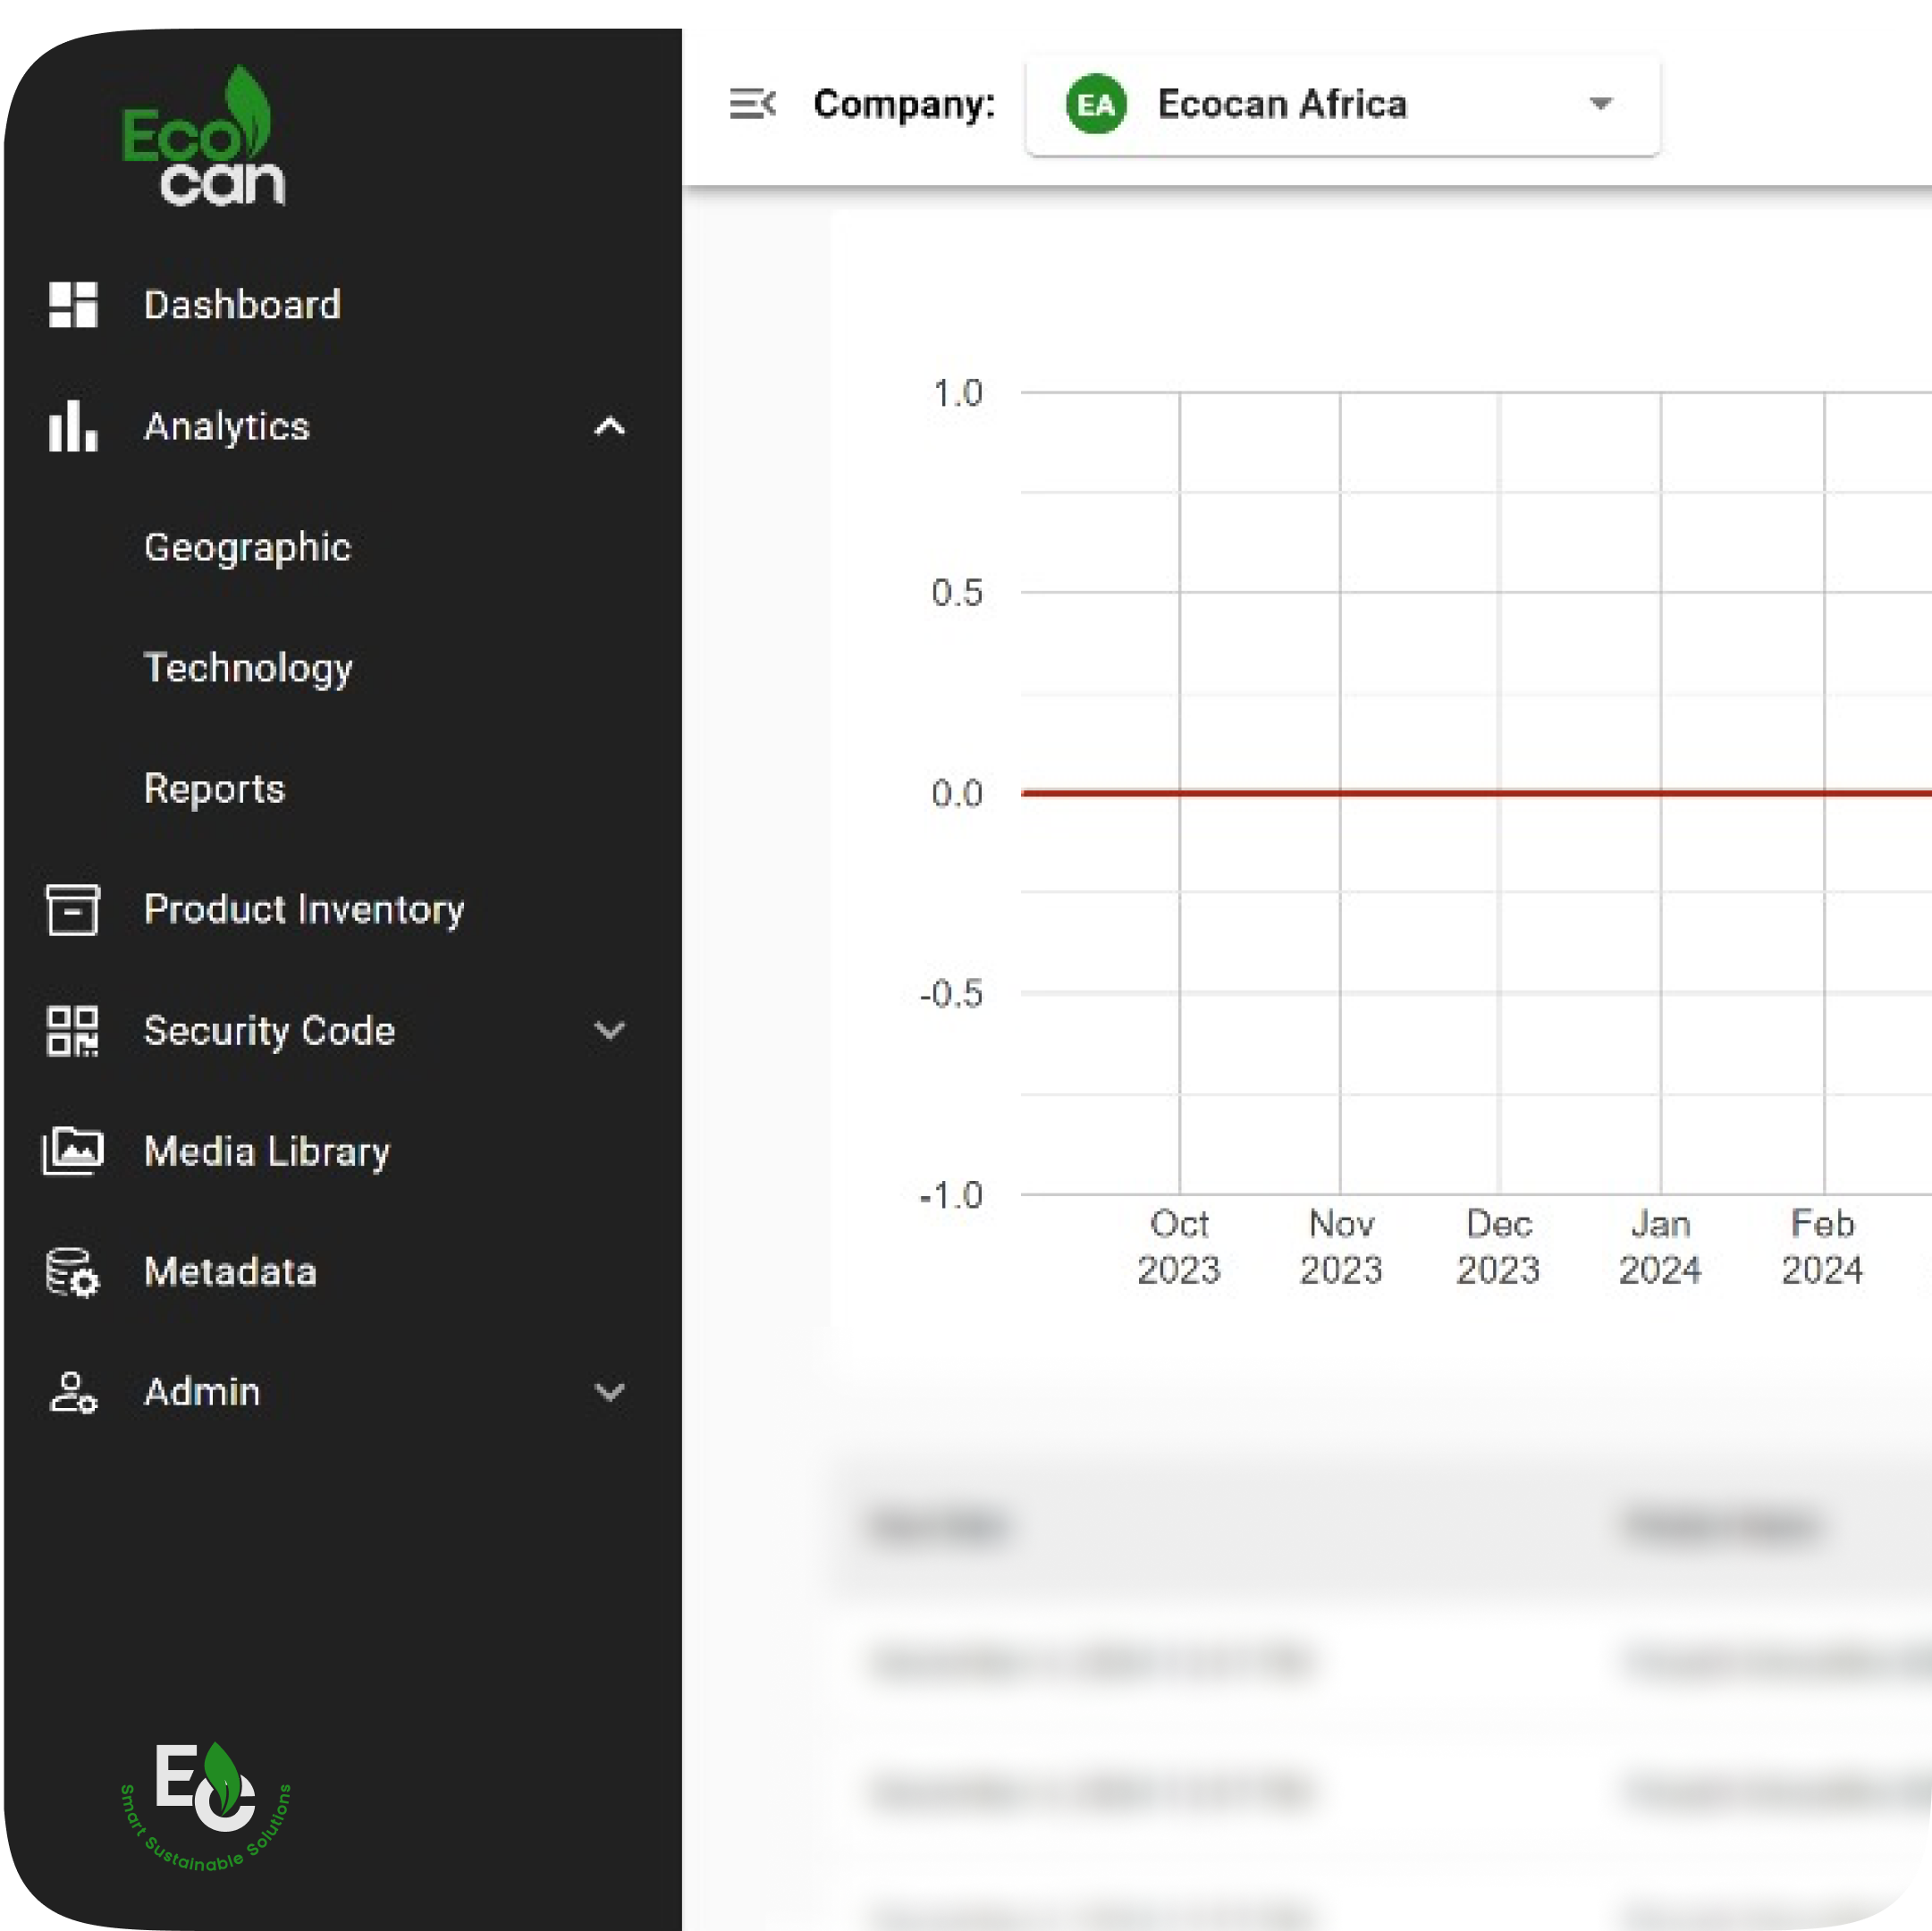
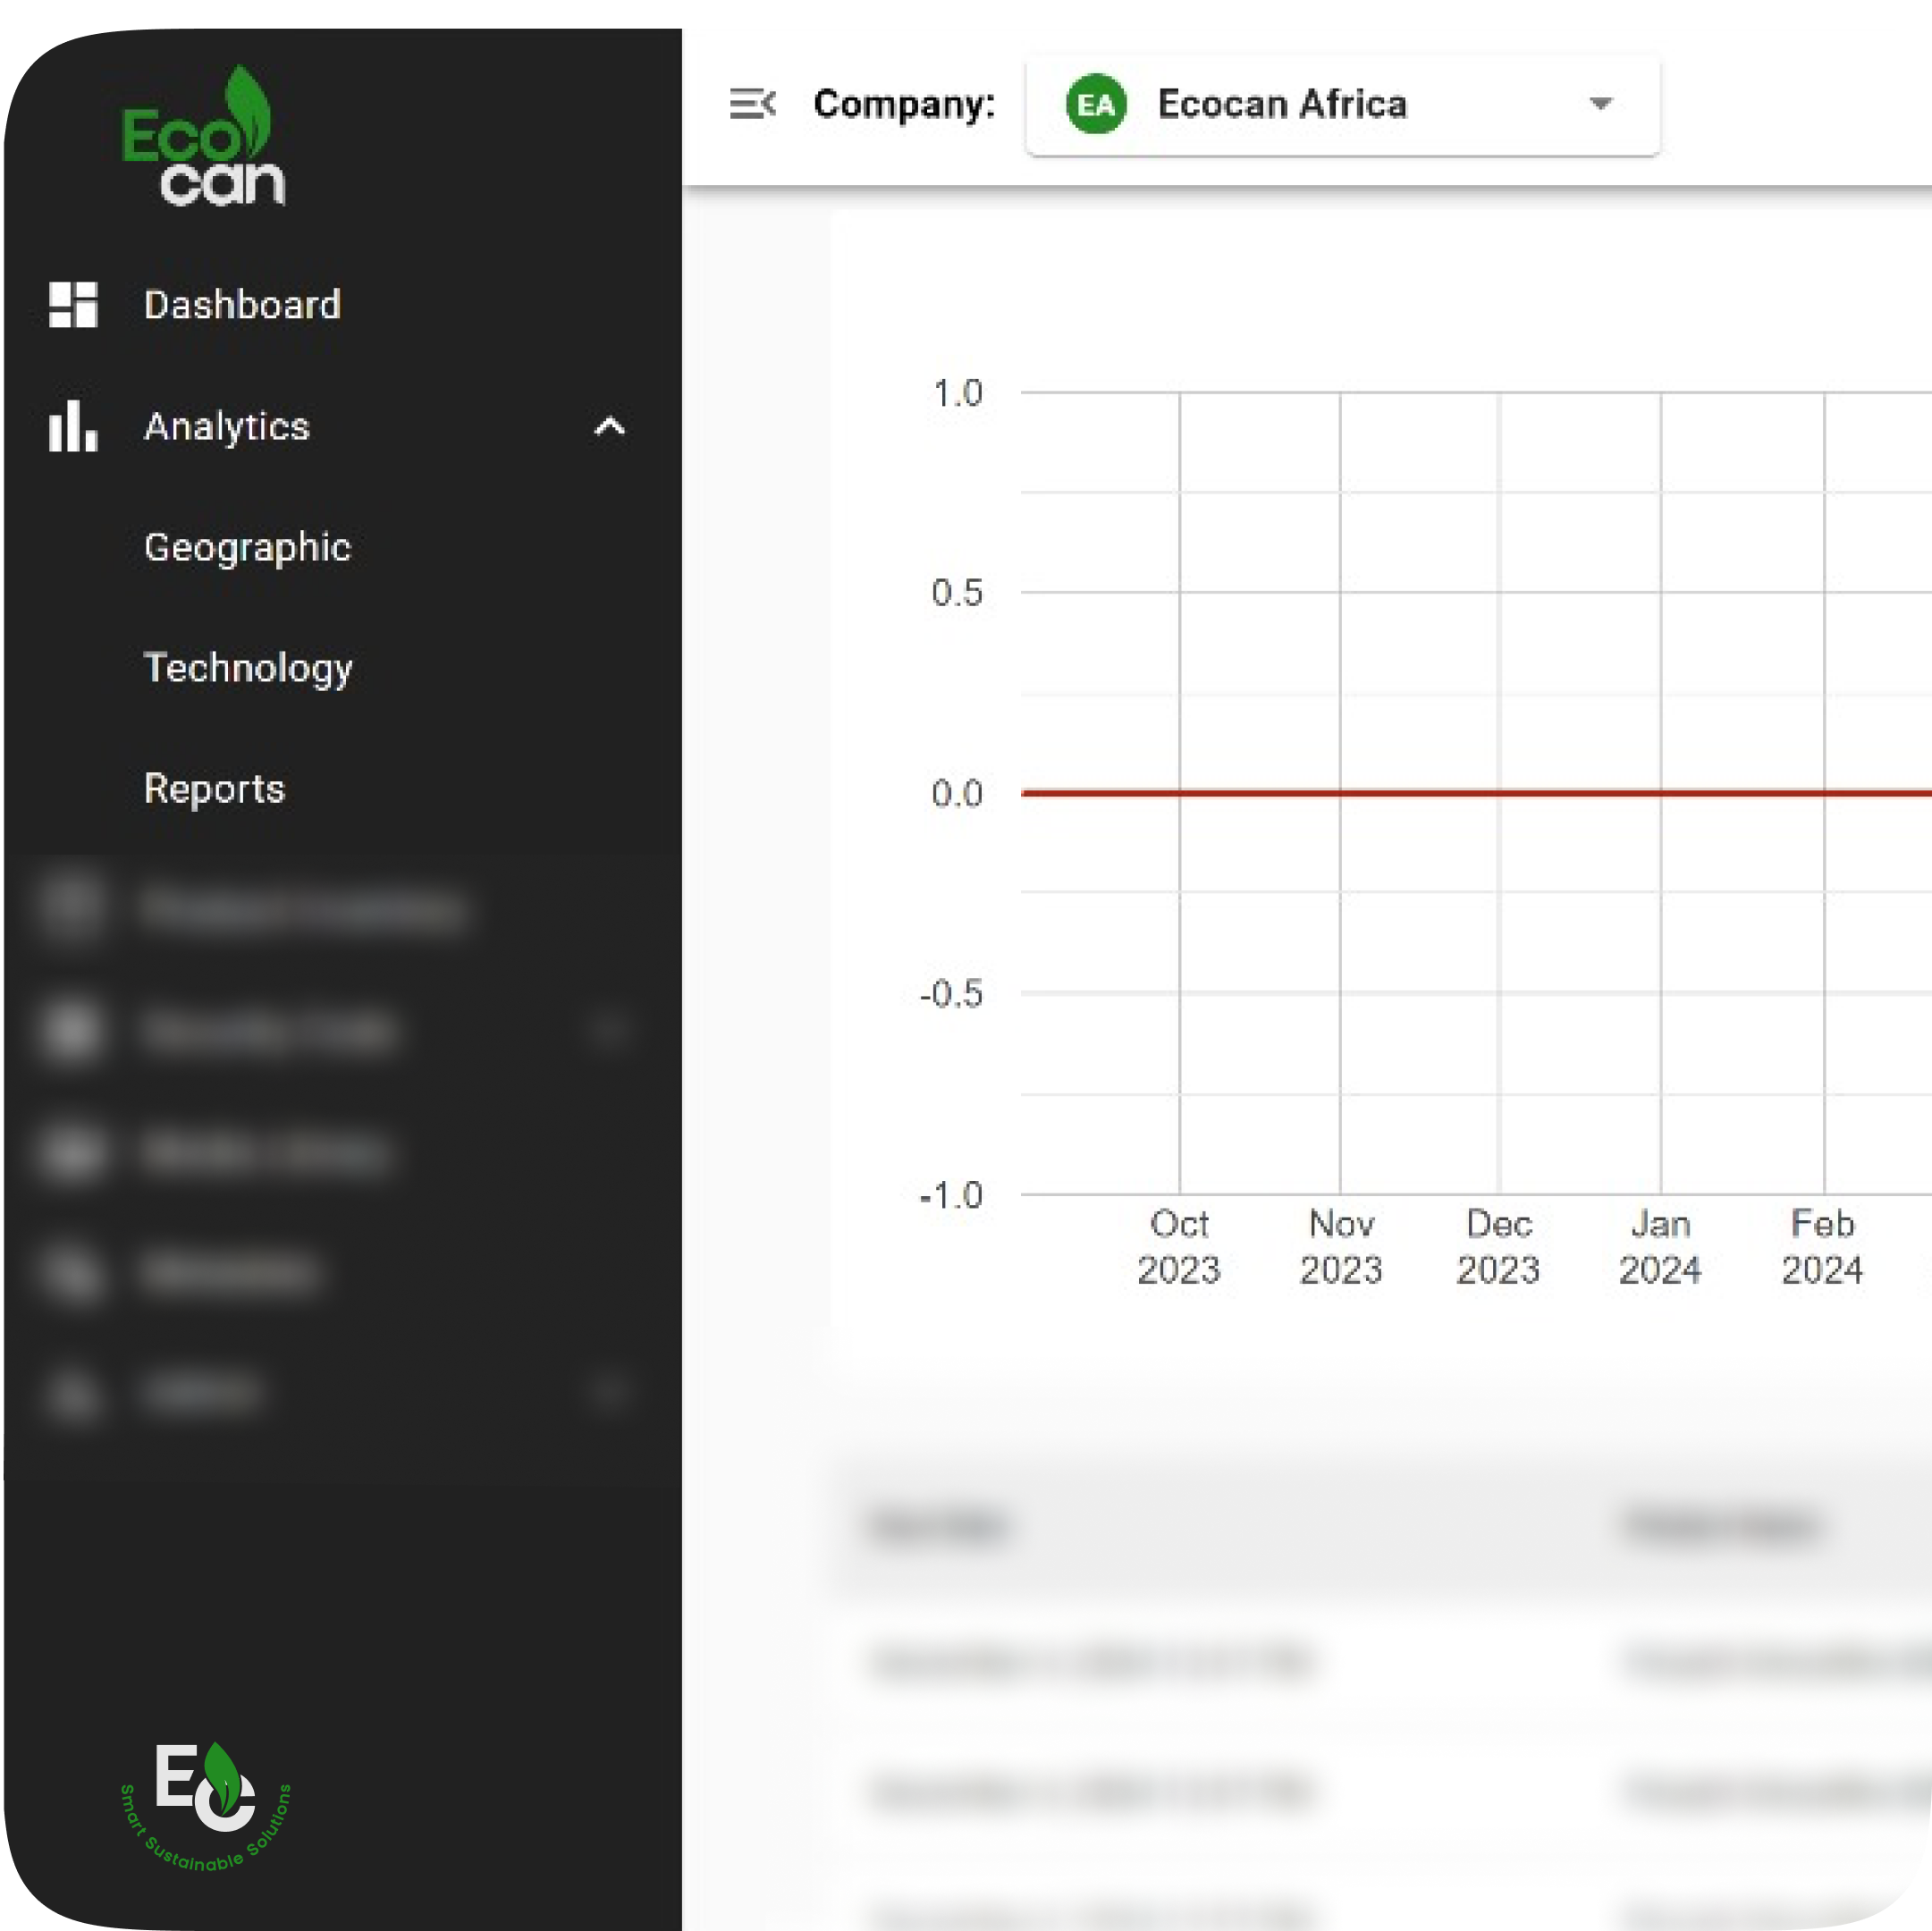
wip: ui fixes

Changed region(s): [[0.0, 0.4343, 0.248, 0.7444]]

diff --git a/app/solutions/sections/packaging-recycling/components/plastics.tsx b/app/solutions/sections/packaging-recycling/components/plastics.tsx
@@ -4,7 +4,18 @@ import React from "react";
 
 const factData = [
   {
-    title: <h1 className="text-lg">Infinite recycling</h1>,
+    title: <h1 className="text-lg">CO2e reduction</h1>,
+    description: (
+      <p className="text-sm lg:w-10/12">
+        Recycling 1 Kg of PET plastics reduces over{" "}
+        <span className="font-bold">80%</span> of Carbon emissions, compared to
+        producing the same PET bottles from virgin raw materials
+      </p>
+    ),
+    imagePath: "bg-[url('/assets/images/solutions/infinite.png')]",
+  },
+  {
+    title: <h1 className="text-lg">Infinite recycling </h1>,
     description: (
       <p className="text-sm lg:w-10/12">
         1 PET bottle can be recycled upto 10 times using typical recycling
@@ -12,28 +23,16 @@ const factData = [
         <span className="font-bold">recycled forever!</span>
       </p>
     ),
-    imagePath: "bg-[url('/assets/images/solutions/infinite.png')]",
+    imagePath: "bg-[url('/assets/images/solutions/e-savings.svg')]",
   },
   {
-    title: <h1 className="text-lg">Energy Savings</h1>,
+    title: <h1 className="text-lg">Energy Savings </h1>,
     description: (
       <p className="text-sm lg:w-10/12">
         Recycling <span className="font-bold">1 ton</span> of PET bottles, saves
         approximately <span className="font-bold">14,000 kWh</span> of energy.
         This is enough energy to power your household for{" "}
         <span className="font-bold">1 full year!</span>
-      </p>
-    ),
-    imagePath: "bg-[url('/assets/images/solutions/e-savings.svg')]",
-  },
-  {
-    title: <h1 className="text-lg">Space Savings</h1>,
-    description: (
-      <p className="text-sm lg:w-10/12">
-        PET recycling diverts empties from landfills, thereby saving upto{" "}
-        <span className="font-bold">5.7 cubic yards</span> of landfill space for
-        every <span className="font-bold">1 ton recycled</span>. This is enough
-        land to set up a small garden, or a playhouse for kids
       </p>
     ),
     imagePath: "bg-[url('/assets/images/solutions/s-savings.svg')]",
@@ -49,13 +48,14 @@ export default function Plastics() {
           <div className="space-y-6 border lg:h-[34.375rem] xl:h-[40rem] p-4 rounded-smooth-xl bg-[#D9D9D9] flex flex-col justify-end bg-[url('/assets/images/solutions/pet-bg.png')] bg-cover relative after:absolute after:inset-0 after:content-[''] after:bg-black/30 after:opacity-70 after:z-10 overflow-hidden">
             <TextWithComponent
               className="bg-[#29292945] backdrop-blur-[2px] rounded-smooth overflow-hidden p-3 relative z-[999] text-white"
-              title={<span className="text-3xl">CO2e reduction</span>}
+              title={<span className="text-3xl">Space Savings</span>}
               description={
                 <p className="text-white text-base">
-                  Recycling 1 Kg of PET plastics reduces over{" "}
-                  <span className="font-bold">80%</span> of Carbon emissions,
-                  compared to producing the same PET bottles from virgin raw
-                  materials
+                  PET recycling diverts empties from landfills, thereby saving
+                  upto <span className="font-bold">5.7 cubic yards</span> of
+                  landfill space for every{" "}
+                  <span className="font-bold">1 ton recycled</span>. This is
+                  enough land to set up a small garden, or a playhouse for kids
                 </p>
               }
             />

diff --git a/components/shared/faq.tsx b/components/shared/faq.tsx
@@ -8,6 +8,7 @@ import {
   AccordionTrigger,
 } from "@/components/ui/accordion";
 import ImageAndItem from "@/components/shared/image-and-item/image-and-item";
+import { Button } from "../ui/button";
 
 interface FaqItem {
   question: string;
@@ -17,10 +18,19 @@ interface FaqItem {
 interface FaqSectionProps {
   faqs: FaqItem[];
   title?: string;
+  initialDisplayCount?: number;
 }
 
-export function FaqSection({ faqs, title = "Frequently Asked Questions (FAQs)" }: FaqSectionProps) {
-  const [selectedItem, setSelectedItem] = useState("item-1");
+export function FaqSection({ faqs, title = "Frequently Asked Questions (FAQs)", initialDisplayCount = 3  }: FaqSectionProps) {
+  const [selectedItem, setSelectedItem] = useState<string | undefined>(undefined);
+  const [showAll, setShowAll] = useState(false);
+
+  const displayedFaqs = showAll ? faqs : faqs.slice(0, initialDisplayCount);
+
+  const toggleDisplay = () => {
+    setShowAll(!showAll);
+    setSelectedItem(undefined);
+  };
 
   return (
     <section className="max-w-5xl mx-auto" id="faq">
@@ -32,7 +42,7 @@ export function FaqSection({ faqs, title = "Frequently Asked Questions (FAQs)" }
         value={selectedItem}
         onValueChange={setSelectedItem}
       >
-        {faqs.map((faq, index) => {
+        {displayedFaqs.map((faq, index) => {
           const itemValue = `item-${index + 1}`;
           const isSelected = selectedItem === itemValue;
 
@@ -56,6 +66,17 @@ export function FaqSection({ faqs, title = "Frequently Asked Questions (FAQs)" }
           );
         })}
       </Accordion>
+      
+      {faqs.length > initialDisplayCount && (
+        <div className="mt-6 text-center">
+          <Button
+            className="text-primary hover:text-primary/90 rounded-full bg-secondary/10 hover:bg-secondary/15"
+            onClick={toggleDisplay}
+          >
+            {showAll ? "View Less" : "View More"}
+          </Button>
+        </div>
+      )}
     </section>
   );
 }

diff --git a/components/shared/footer/footer.tsx b/components/shared/footer/footer.tsx
@@ -68,7 +68,7 @@ const Footer = () => {
           <div className="col-span-10 md:col-span-2">
             <h3 className="text-xl font-semibold mb-4">Our Socials</h3>
             <div className="grid grid-cols-3 gap-2 w-fit">
-              <Link href="https://facebook.com" className="w-fit">
+              <Link href="https://facebook.com/EcocanAfrica" className="w-fit">
                 <Image
                   src="/assets/icons/facebook.svg"
                   alt="Facebook"
@@ -76,7 +76,7 @@ const Footer = () => {
                   height={40}
                 />
               </Link>
-              <Link href="https://twitter.com" className="w-fit">
+              <Link href="https://twitter.com/EcocanAfrica" className="w-fit">
                 <Image
                   src="/assets/icons/X.svg"
                   alt="Twitter"
@@ -84,7 +84,7 @@ const Footer = () => {
                   height={40}
                 />
               </Link>
-              <Link href="https://instagram.com" className="w-fit">
+              <Link href="https://www.instagram.com/ecocanafrica?igsh=eHEycmVwYnV3OGR2" className="w-fit">
                 <Image
                   src="/assets/icons/Instagram.svg"
                   alt="Instagram"
@@ -108,7 +108,7 @@ const Footer = () => {
                   height={40}
                 />
               </Link>
-              <Link href="https://youtube.com" className="w-fit">
+              <Link href="https://www.youtube.com/@EcocanAfrica" className="w-fit">
                 <Image
                   src="/assets/icons/youtube.svg"
                   alt="YouTube"

diff --git a/app/solutions/sections/packaging-recycling/components/aluminium.tsx b/app/solutions/sections/packaging-recycling/components/aluminium.tsx
@@ -37,7 +37,7 @@ const factData = [
         <span className="text-primary">ECOCAN</span>.
       </p>
     ),
-    imagePath: "bg-[url('/assets/images/solutions/recycling.svg')]",
+    imagePath: "bg-[url('/assets/images/solutions/recycling-journey.svg')]",
   },
 ];
 
@@ -69,10 +69,10 @@ export default function Aluminium() {
                 return (
                   <div
                     key={index}
-                    className={`rounded-2xl flex flex-col justify-end p-3 ${fact.imagePath} bg-cover bg-center`}
+                    className={`rounded-smooth-lg flex flex-col justify-end p-3 ${fact.imagePath} bg-cover bg-center`}
                   >
                     <TextWithComponent
-                      className="p-3 text-white bg-[#29292945] backdrop-blur-[2px] rounded-2xl"
+                      className="p-3 text-white bg-[#29292945] backdrop-blur-[1px] rounded-2xl"
                       title={fact.title}
                       description={
                         <span className="text-white">{fact.description}</span>

diff --git a/app/blog/components/partnership-articles.tsx b/app/blog/components/partnership-articles.tsx
@@ -49,7 +49,7 @@ const articles: Article[] = [
     description:
       "Savannah Brands Limited, the maker of the renowned cider brand Kenyan Originals, has officially joined the ECO-system to enable the recycling of its cider bottles in Kenya",
     date: "July  2023",
-    imageUrl: "/assets/images/blog/ko.webp",
+    imageUrl: "/assets/images/blog/ko.png",
   },
   {
     id: 6,

diff --git a/app/solutions/sections/packaging-recycling/components/process.tsx b/app/solutions/sections/packaging-recycling/components/process.tsx
@@ -19,7 +19,7 @@ export default function Process() {
           <MediaViewer
             type="video"
             title="Recycling Process Video"
-            source="https://www.youtube.com/embed/9_7KM-2AhMs"
+            source="https://www.youtube.com/embed/PhmYFcz-98A"
             start={48}
             end={98}
             trigger={

diff --git a/components/contents/eco-station/eco-station-content.tsx b/components/contents/eco-station/eco-station-content.tsx
@@ -63,7 +63,7 @@ const howToData = [
     ),
     description: (
       <p className="mt-2">
-        ECOnsumers will come to you recycle, and to buy more from you. See{" "}
+        ECOnsumers will come to you to recycle, and to buy more from you. See{" "}
         <HyperLink
           href="/solutions/packaging-recycling#how-it-works"
           link="here"

diff --git a/app/solutions/sections/packaging-recycling/packaging-recycling.tsx b/app/solutions/sections/packaging-recycling/packaging-recycling.tsx
@@ -22,7 +22,6 @@ export default function PackagingRecycling() {
         <div className="bg-white pt-12 pb-8 lg:pb-36 space-y-24 relative">
           <Process/>
           <ClosedLoop/>
-          <SmallDeeds />
           <svg
             xmlns="http://www.w3.org/2000/svg"
             viewBox="0 0 1440 100"